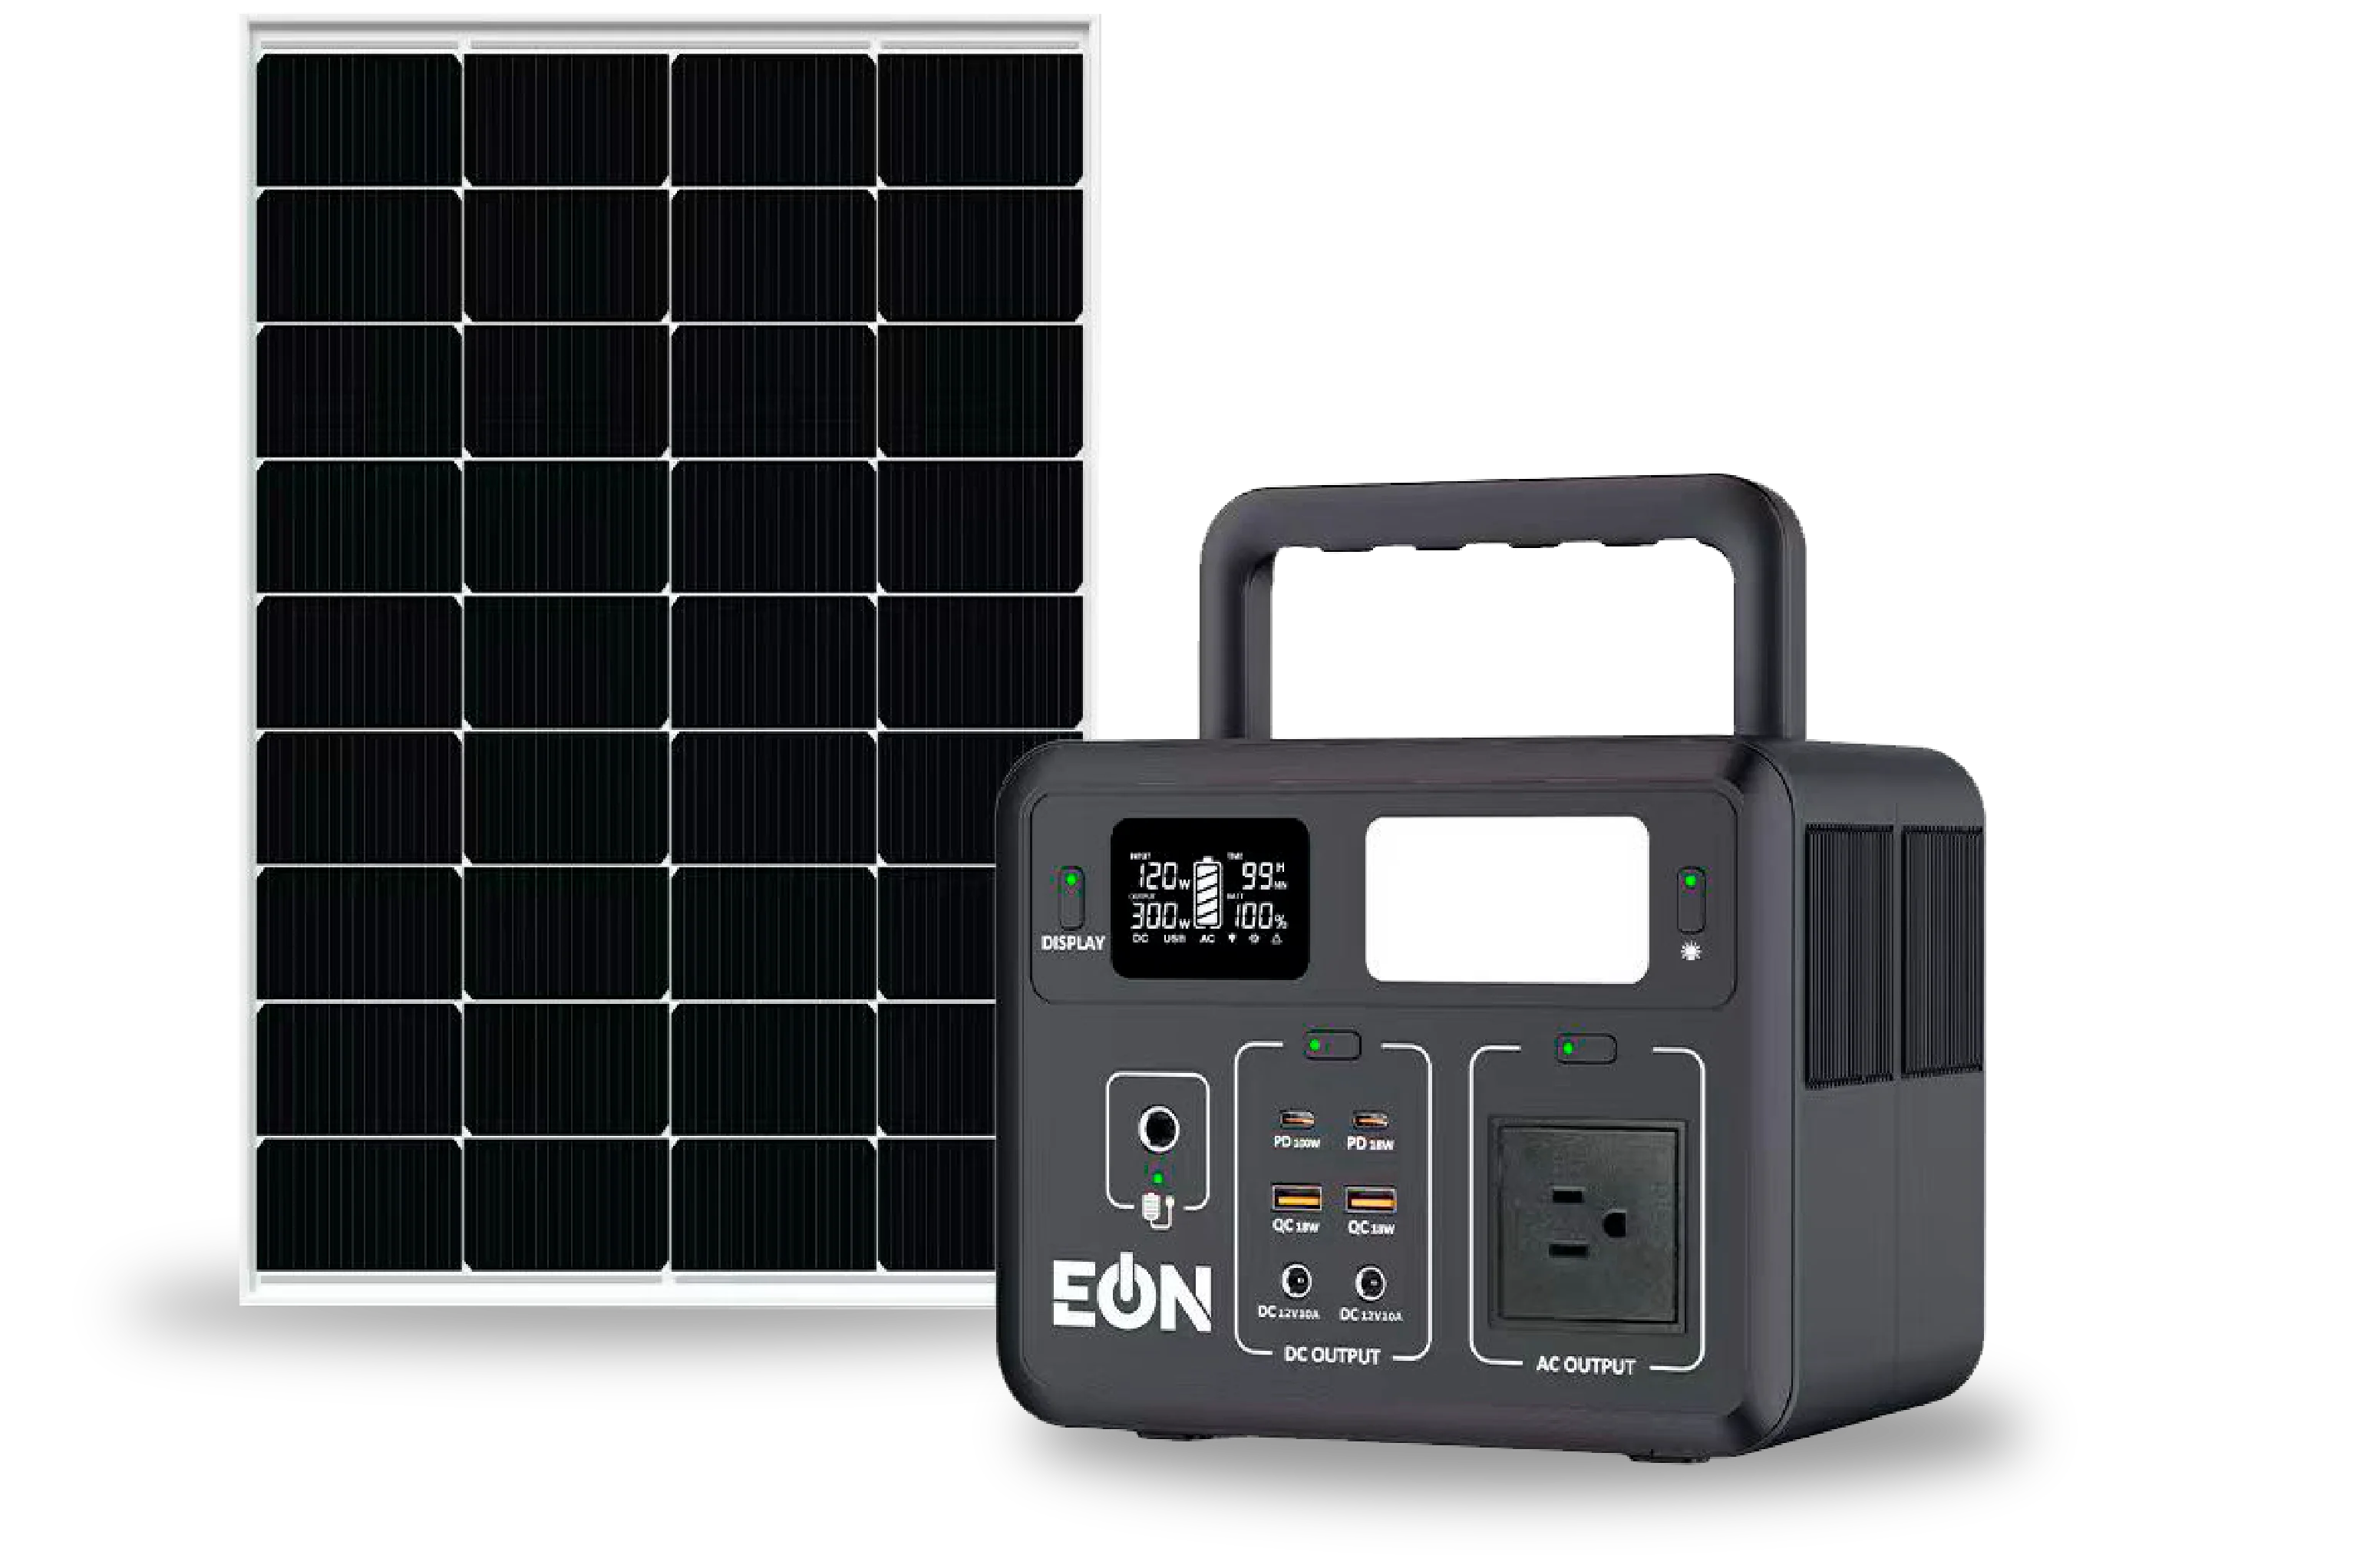
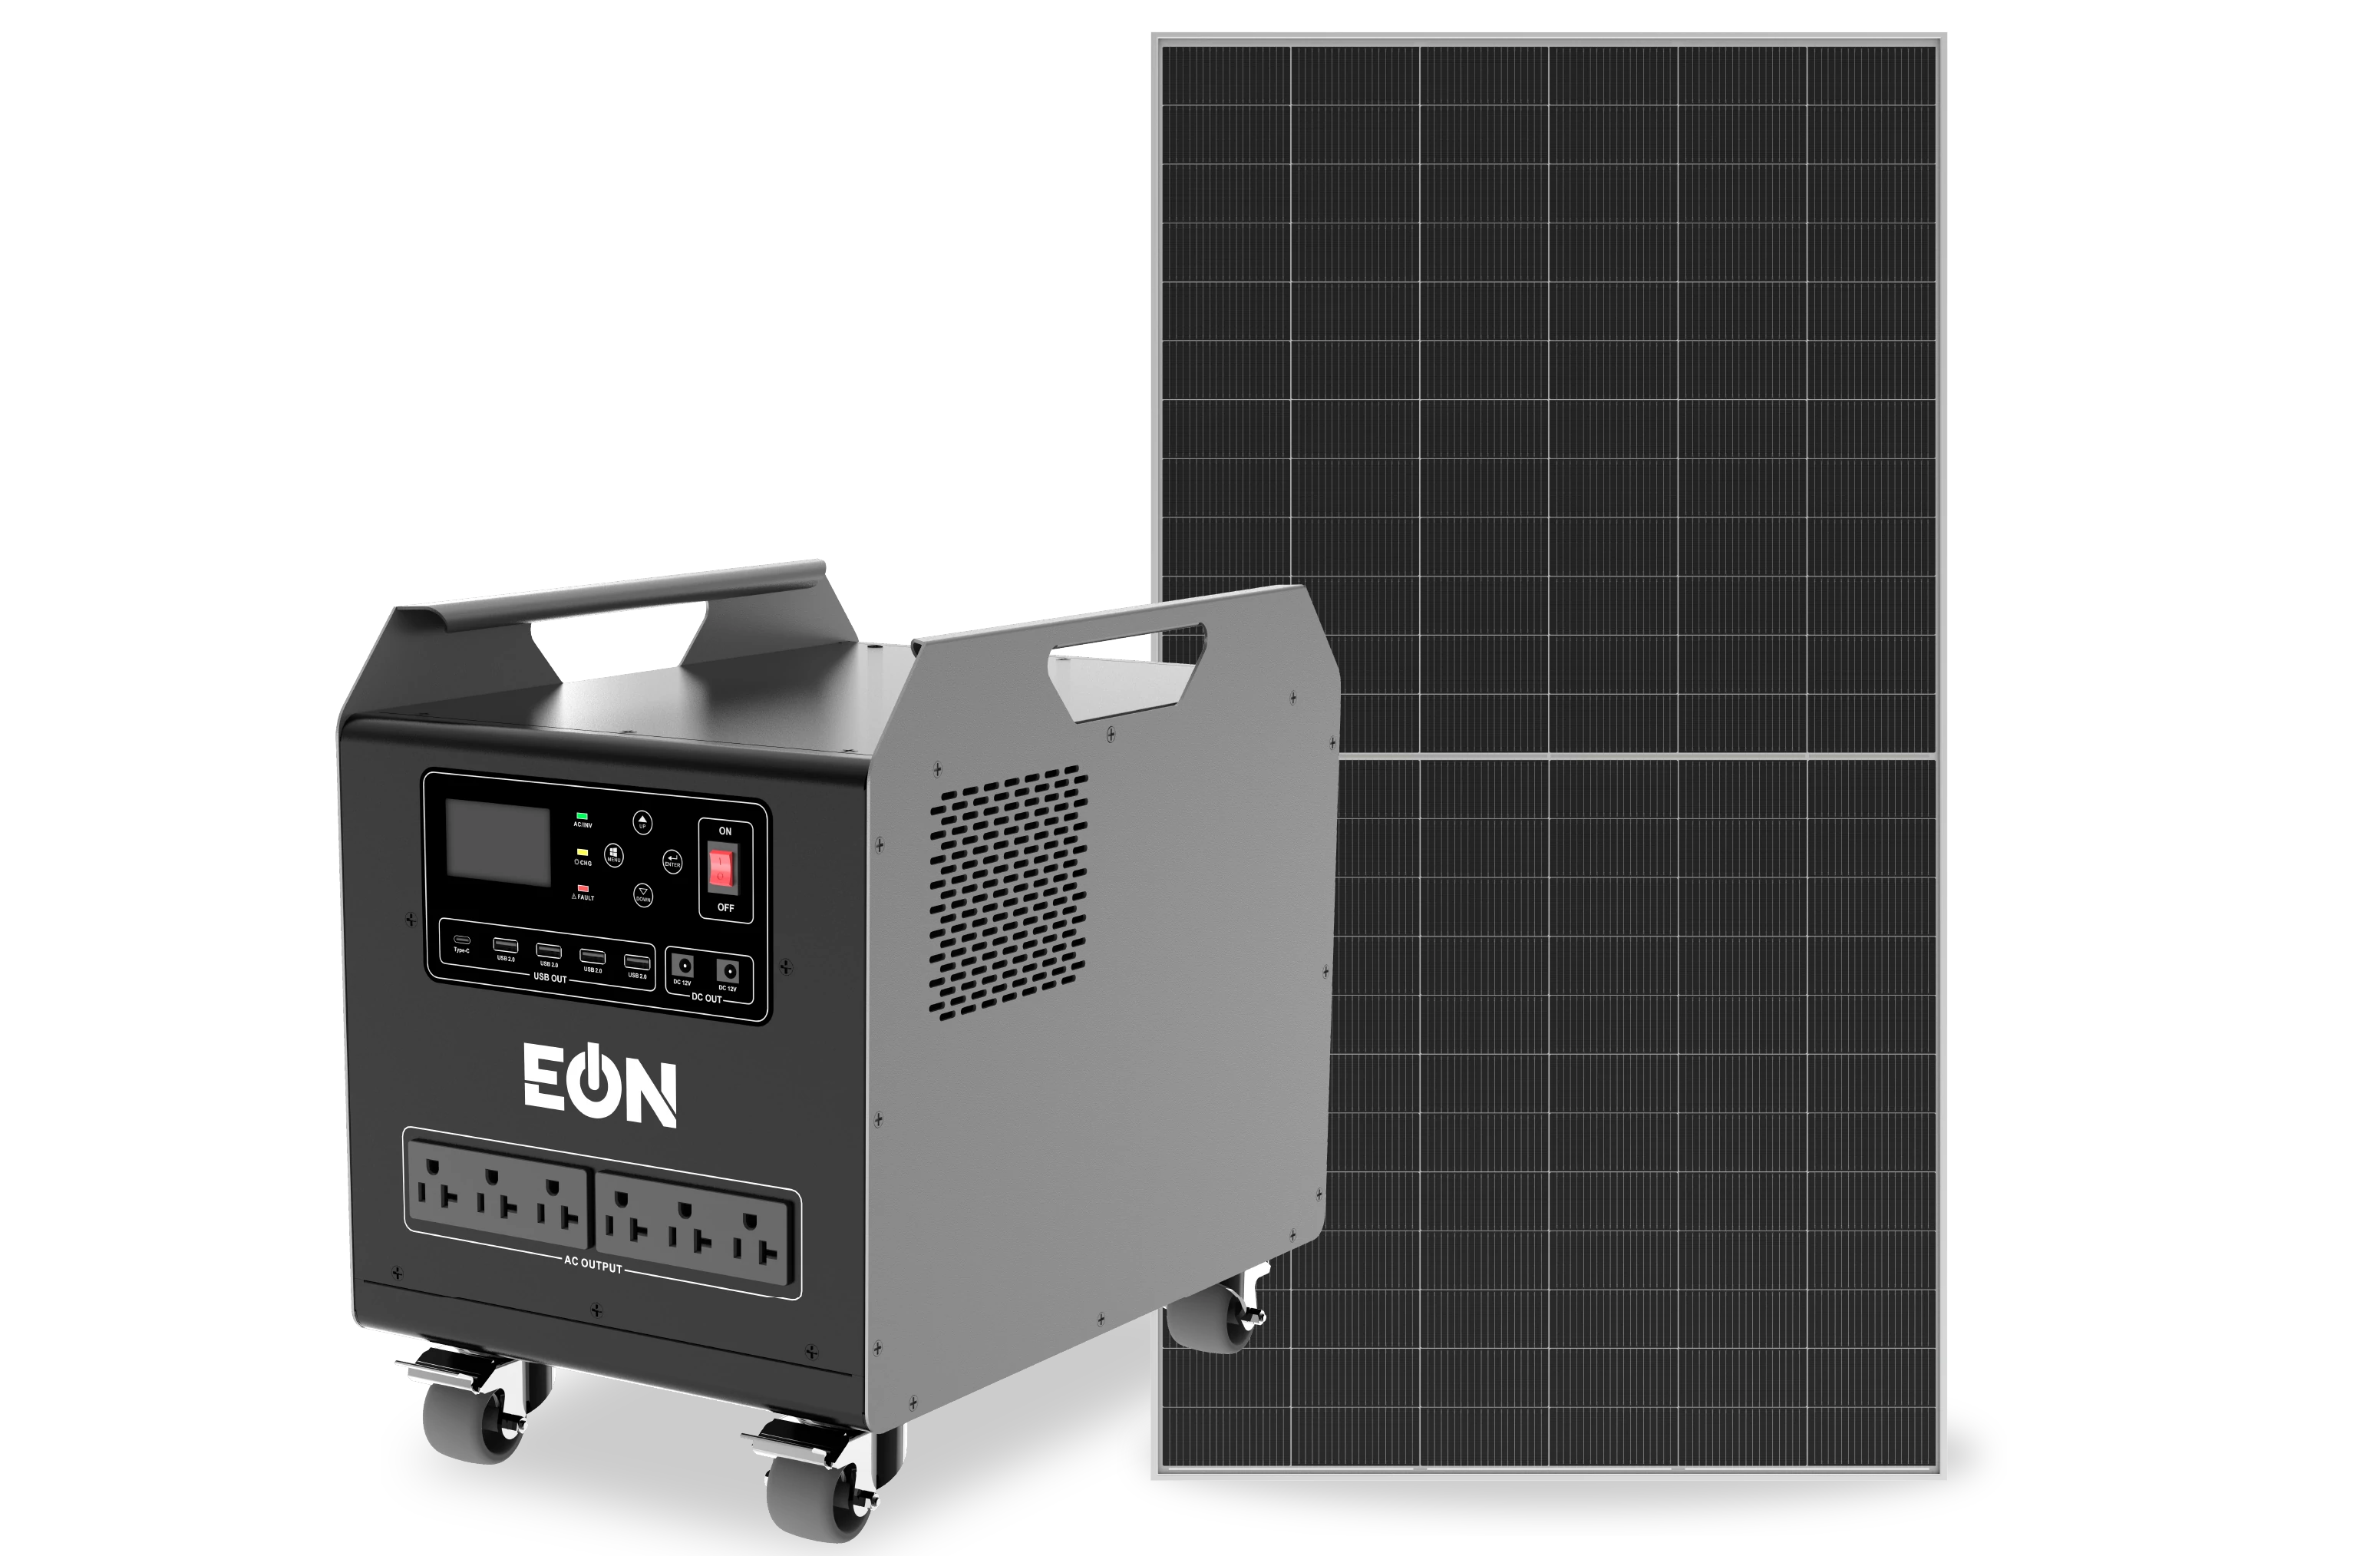
update(Eyes)

diff --git a/components/NoProductsFound/noProductsFound.tsx b/components/NoProductsFound/noProductsFound.tsx
@@ -1,0 +1,63 @@
+"use client"
+
+import { MapPin, Package } from "lucide-react"
+import useProductsByLocationStore from "@/store/productsByLocationStore"
+
+export function NoProductsFound() {
+  const { setIsOpen } = useProductsByLocationStore()
+
+  return (
+    <div className="flex items-center justify-center p-2 w-full">
+      <div className="rounded-2xl p-2 sm:p-10  w-full flex flex-col items-center 
+      text-center bg-linear-to-br from-primary via-[#2540C4] to-primary
+       space-y-5">
+
+        {/* Icon ring */}
+        <div
+          role="button"
+          tabIndex={0}
+          onClick={() => setIsOpen(true)}
+          onKeyDown={(e) => {
+            if (e.key === "Enter" || e.key === " ") {
+              e.preventDefault()
+              setIsOpen(true)
+            }
+          }}
+          className="relative mb-6 cursor-pointer"
+        >
+          <div className="w-20 h-20 rounded-full flex items-center justify-center bg-white/10 border border-white/20">
+            <Package className="w-9 h-9 text-white/90" strokeWidth={1.5} />
+          </div>
+          <div className="absolute -bottom-1 -right-1 w-8 h-8 rounded-full flex items-center justify-center bg-[#F5C842] border-2 border-white/30">
+            <MapPin className="w-4 h-4 text-[#1E3AB8]" strokeWidth={2} />
+          </div>
+          
+        </div>
+
+        {/* Message */}
+        <p className="text-white/95 font-medium leading-relaxed text-xl  sm:text-4xl tracking-wide">
+          No se encontraron productos disponibles en la <samp className="text-accent font-sans font-bold">provincia</samp>  seleccionada.
+        </p>
+
+        {/* Divider */}
+        <div className="my-5 h-1 w-20 rounded-full bg-accent" />
+
+        <p
+          role="button"
+          tabIndex={0}
+          onClick={() => setIsOpen(true)}
+          onKeyDown={(e) => {
+            if (e.key === "Enter" || e.key === " ") {
+              e.preventDefault()
+              setIsOpen(true)
+            }
+          }}
+          className="text-white/50 text-sm sm:text-2xl tracking-wide cursor-pointer"
+        >
+          Intenta con otra provincia
+        </p>
+
+      </div>
+    </div>
+  )
+}

diff --git a/components/menu/menu.tsx b/components/menu/menu.tsx
@@ -128,16 +128,21 @@ export default function Menu() {
         <div className="p-6 ">
           {/* Logo y botón cerrar */}
           <div className="flex justify-between items-center mb-8">
-                <Link href="/">
-            <Image 
-            src="/images/logo.svg" 
-            alt="Logo"
-             width={0} 
-             height={0} 
-             className="h-10 w-30"
-             />
-              </Link>
-
+            <Link
+              href="/"
+              onClick={() => {
+                setIsOpen(false);
+                // if (!checkActive("/")) startLoading();
+              }}
+            >
+              <Image
+                src="/images/logo.svg"
+                alt="Logo"
+                width={0}
+                height={0}
+                className="h-10 w-30"
+              />
+            </Link>
             <button
               onClick={() => setIsOpen(false)}
               className="text-gray-600 hover:text-gray-900"

diff --git a/components/banner/bannerPot.tsx b/components/banner/bannerPot.tsx
@@ -58,7 +58,7 @@ export default function BannerPot() {
           />
         </div>
 
-        <div className="z-10  mt-8 row-start-1 col-start-1 flex flex-col md:flex-row items-center justify-between 2xl:justify-center gap-5 mx-4 lg:mx-10 2xl:mx-20 text-justify sm:text-left ">
+        <div className="z-10  mt-8 row-start-1 col-start-1 flex flex-col md:flex-row items-center justify-between  gap-5 mx-4 lg:mx-10 2xl:mx-20 text-justify sm:text-left ">
           <div
             id="lorem"
             className=" text-white md:mb-30  mx-1.5 sm:mx-0 md:w-1/2  "
@@ -78,8 +78,7 @@ export default function BannerPot() {
 
           <div className="grid h-full items-end">
             {images.map((src, i) => (
-              <img
-                loading="lazy"
+              <img                
                 key={src}
                 src={src}
                 alt="ollas y calderos"

diff --git a/components/banner/bannerPotProducts.tsx b/components/banner/bannerPotProducts.tsx
@@ -57,7 +57,7 @@ export default function BannerPotProducts() {
           />
         </div>
 
-        <div className="z-10  mt-8 row-start-1 col-start-1 flex flex-col md:flex-row items-center justify-between 2xl:justify-center  gap-5 mx-4 xl:ml-10 2xl:mx-10">
+        <div className="z-10  mt-8 row-start-1 col-start-1 flex flex-col md:flex-row items-center justify-between   gap-5 mx-4 xl:ml-10 2xl:mx-10">
           <div id="lorem" className=" text-white md:mb-30 w-1/2 ">
             <h1 className="text-2xl sm:text-[28px] md:text-2xl  xl:text-3xl 2xl:text-[32px] font-bold  animate__animated  animate__lightSpeedInLeft">
               <samp className="text-[#D69F04] block  ">
@@ -74,8 +74,7 @@ export default function BannerPotProducts() {
 
           <div className="grid h-full items-end">
             {images.map((src, i) => (
-              <img
-              loading="lazy"
+              <img             
                 key={src}
                 src={src}
                 alt="ollas y calderos"

diff --git a/utils/cookies.ts b/utils/cookies.ts
@@ -5,25 +5,21 @@ const COOKIE_BASE_ATTRS = "path=/; SameSite=Lax";
 export const setAuthCookie = () => {
   const cookie = `logged_in=true; expires=${COOKIE_FOREVER_EXPIRES}; ${COOKIE_BASE_ATTRS}`;
   document.cookie = cookie;
-  console.log("[Cookies] setAuthCookie:", cookie);
 };
 
 export const clearAuthCookie = () => {
   const cookie = `logged_in=; expires=Thu, 01 Jan 1970 00:00:00 GMT; Max-Age=0; ${COOKIE_BASE_ATTRS}`;
   document.cookie = cookie;
-  console.log("[Cookies] clearAuthCookie:", cookie);
 };
 
 export const setCartCookie = () => {
   const cookie = `has_cart=true; expires=${COOKIE_FOREVER_EXPIRES}; ${COOKIE_BASE_ATTRS}`;
   document.cookie = cookie;
-  console.log("[Cookies] setCartCookie:", cookie);
 };
 
 export const clearCartCookie = () => {
   const cookie = `has_cart=; expires=Thu, 01 Jan 1970 00:00:00 GMT; Max-Age=0; ${COOKIE_BASE_ATTRS}`;
   document.cookie = cookie;
-  console.log("[Cookies] clearCartCookie:", cookie);
 };
 
 // Helper para el proxy (server-side)

diff --git a/utils/refreshToken.ts b/utils/refreshToken.ts
@@ -15,7 +15,7 @@ const isTokenExpired = (token: string): boolean => {
         .join("")
     );
     const payload = JSON.parse(jsonPayload);
-    
+    // console.log("Payload exp:", payload.exp);
     // Agregar margen de 30 segundos para evitar edge cases
     return payload.exp * 1000 < Date.now() + 30000;
   } catch {